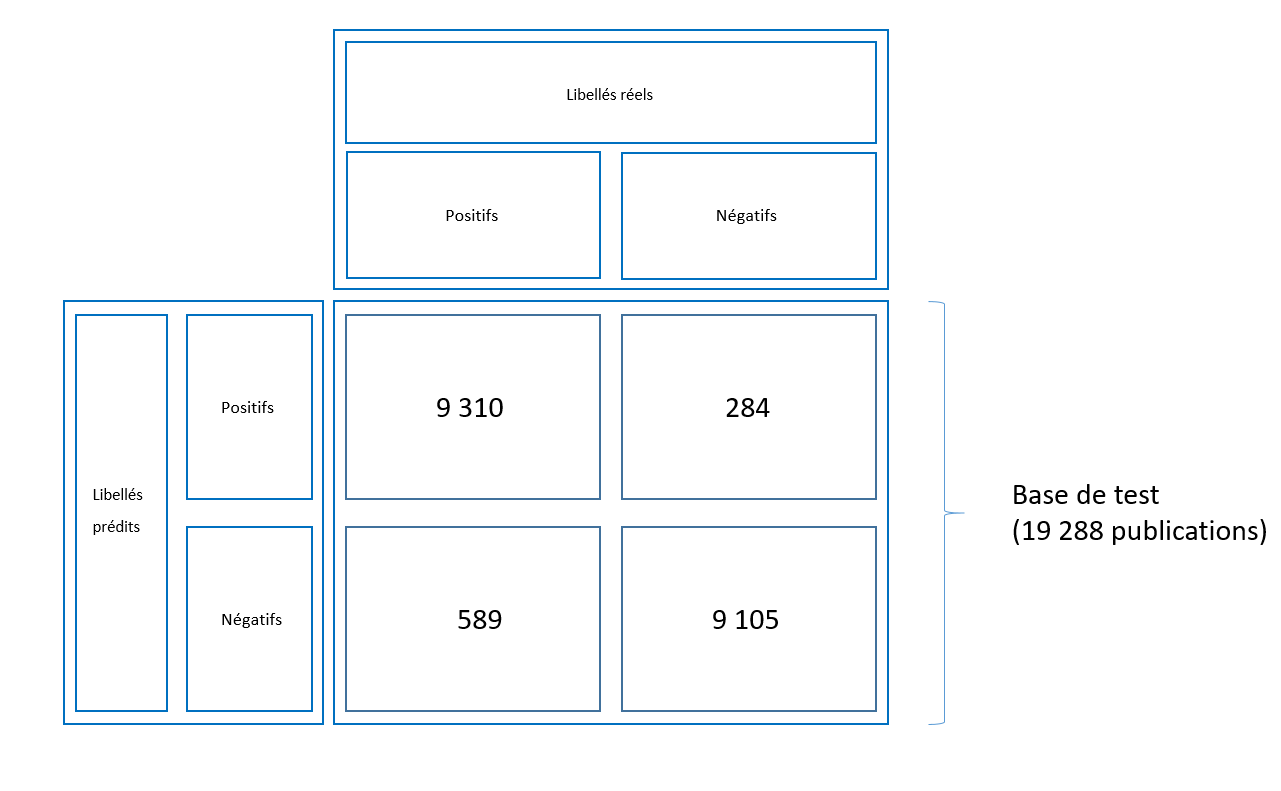
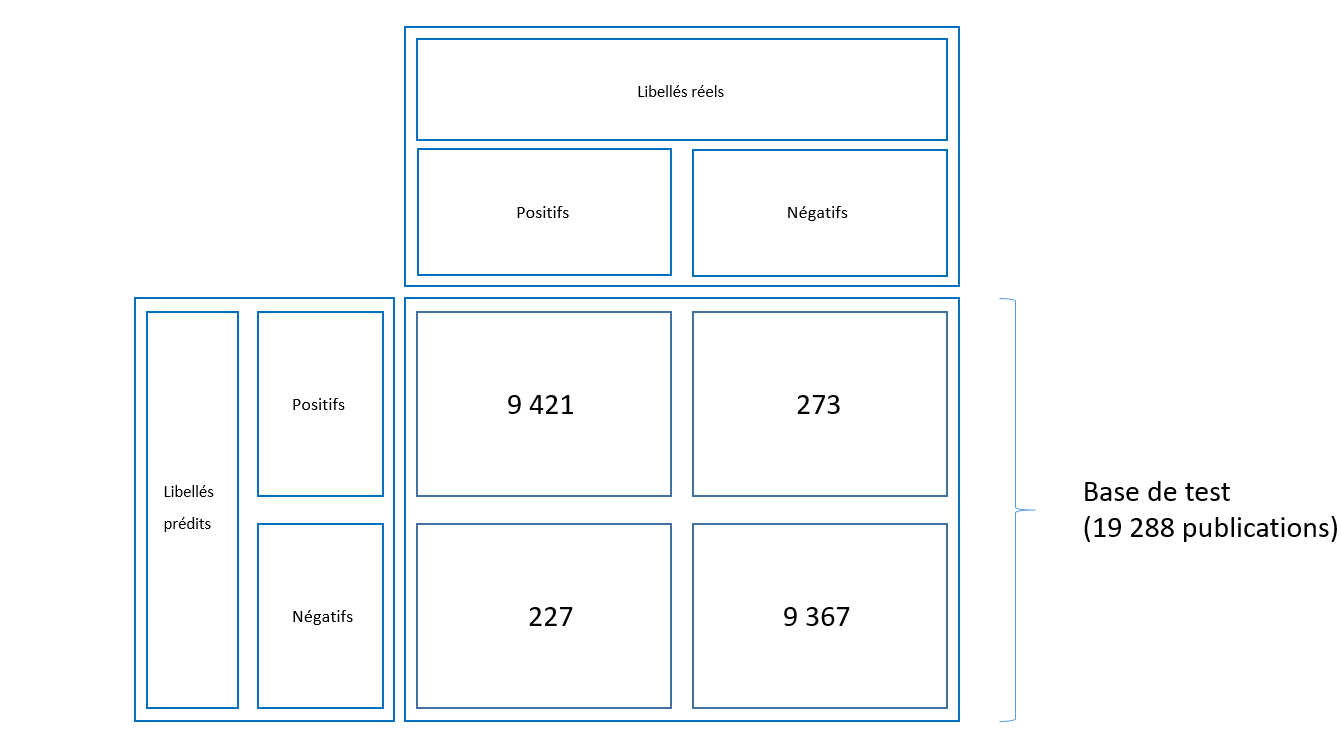
feat(teds):application on scanR publications

diff --git a/docs/202412XX_teds_model.html b/docs/202412XX_teds_model.html
@@ -39,6 +39,35 @@
         border-color: red;
         border-width: 2px;
       }
+      .frac {
+        display: inline-block;
+        margin-left: 0.1em;
+        margin-right: 0.1em;
+        vertical-align: -64%;
+        text-align: center;
+      }
+      .frac > .num,
+      .frac > .den {
+        display: inline-block;
+        padding: 0 0.1em;
+      }
+      .frac > .fracbar {
+        display: block;
+        height: 0;
+        margin: 0;
+        border: 0;
+        border-bottom: 0.1em solid;
+        overflow: hidden;
+      }
+      .den {
+        vertical-align: top;
+      }
+      .math {
+        font-family: times;
+        padding: 0 0.1em;
+        font-size: 1.2em;
+        font-style: normal;
+      }
     </style>
   </head>
 
@@ -519,7 +548,9 @@
           </section>
           <section>
             <div style="font-size: 0.8em">
-              Le modèle utilisé ici est une <b>regression logistique</b>:
+              Le modèle utilisé ici est un modèle d'apprentissage Fasttext qui
+              après avoir vectorisé les mots effectue une
+              <b>regression logistique</b>:
               <br />
               ➔ Qu'est-ce qu'une régression logistique ?
             </div>
@@ -527,21 +558,39 @@
           <section>
             <h3 style="font-size: 0.85em">
               La régression logistique prédit une catégorie (par exemple, 0 ou
-              1) en calculant la probabilité que quelque chose appartienne à
-              cette catégorie
+              1) en calculant la probabilité qu'une publication appartienne à
+              cette catégorie, on la définit à partir de notre base
+              d'apprentissage:
             </h3>
             <div style="height: 500px">
-              <img src="images/teds_tree.png" />
+              <img src="images/teds_regression_app.png" />
             </div>
           </section>
           <section>
             <h3 style="font-size: 0.85em">
-              Une forêt aléatoire est un ensemble d'arbre de décision permettant
-              d'obtenir une probabilité
+              Une fois l'apprentissage terminé, le modèle est capable de prévoir
+              la catégorie associée à une nouvelle publication (qui n'appartient
+              pas à la base d'apprentissage)
             </h3>
             <div style="height: 500px">
-              <img src="images/teds_randomforest.png" />
+              <img src="images/teds_regression_test.png" />
             </div>
+          </section>
+          <section>
+            <h3 style="font-size: 0.8em">Annexe</h3>
+            <div style="font-size: 0.75em; line-height: 170%">
+              La fonction logistique:
+            </div>
+            <span class="math">
+              f(<i>x</i>)=
+              <span class="frac">
+                <span class="num">1</span>
+                <span class="fracbar">/</span>
+                <span class="den"
+                  >1 + e<sup>-<i>x</i></sup></span
+                >
+              </span>
+            </span>
           </section>
         </section>
 
@@ -557,8 +606,8 @@
           </section>
           <section>
             <h3 style="font-size: 0.85em">
-              Sur les 19 288 publications de la base de test, 18 415
-              publications sont prédits correctement, soit 95% des publications
+              Sur les 19 288 publications de la base de test, 18 788
+              publications sont prédits correctement, soit 97% des publications
             </h3>
             <div style="height: 500px; font-size: 0.8em">
               <img src="images/teds_model_results.png" />
@@ -570,13 +619,27 @@
         <section>
           <section>
             <h3 style="font-size: 0.85em">
-              Application sur les publications ScanR
+              Quelles applications sur les publications ScanR ?
             </h3>
-            <div style="font-size: 0.8em">
-              montrer ce que ça donne sur les publis ScanR
-              <div style="float: left; width: 100%">
-                <div style="font-size: 0.75em"></div>
-              </div>
+          </section>
+          <section>
+            <h3 style="font-size: 0.85em">
+              La part de publication abordant des thématiques relatives à
+              l'écologie semble augmenter ces dernieres années :
+            </h3>
+            <div style="height: 500px; font-size: 0.8em">
+              <img src="images/teds_model_scanR1.png" />
+              <br />
+            </div>
+          </section>
+          <section>
+            <h3 style="font-size: 0.85em">
+              Cette part semble d'autant plus importantes lorsqu'on considère
+              les publications avec des thèmes associés
+            </h3>
+            <div style="height: 500px; font-size: 0.8em">
+              <img src="images/teds_model_scanR2.png" />
+              <br />
             </div>
           </section>
         </section>

diff --git a/docs/index.html b/docs/index.html
@@ -69,7 +69,7 @@
         >
       </li>
       <li>
-        <a href="./202407XX_teds_model.html" target="_blank"
+        <a href="./202412XX_teds_model.html" target="_blank"
           >202412XX - TEDS - Modèle : Edition 2024</a
         >
       </li>
